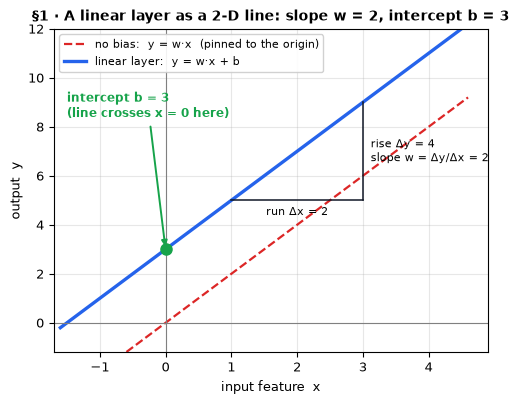
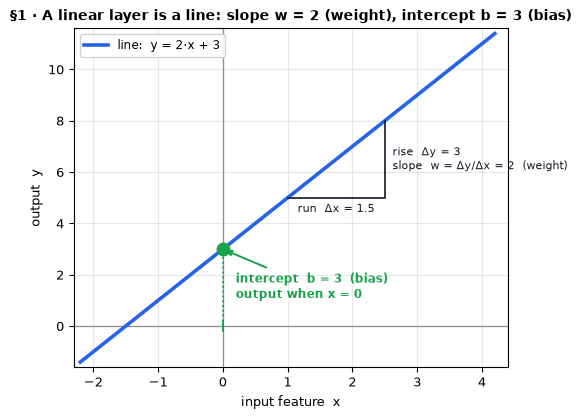
docs(linear-layer): single-line slope/intercept plot + mermaid flow
Simplify fig_linear_layer_affine() to a single clean 2-D line plot: one blue line y = w*x + b with a rise/run slope triangle (w = 2, the weight) and a labeled y-intercept point (b = 3, the bias) at x = 0.

Add a Mermaid flow to section 1.7 (input x -> multiply by weight w / SLOPE -> add bias b / INTERCEPT -> output y) and trim the reading table to the single-line elements.

diff --git a/tools/make_math_figures.py b/tools/make_math_figures.py
@@ -262,44 +262,43 @@ def fig_linalg_card():
 
 
 def fig_linear_layer_affine():
-    """A 1-D linear layer is just a line: y = w·x + b.
+    """A 1-D linear layer is just one straight line: y = w·x + b.
 
-    Isolates the two terms of the affine map in 2-D — the slope w (weight)
-    read off a rise/run triangle and the intercept b (bias) where the line
-    crosses the y-axis — and contrasts the biased line with the bias-free
-    y = w·x that is pinned to the origin.
+    A single-line 2-D plot that reads both learnable scalars straight off the
+    graph: the slope w (the weight) via a rise/run triangle, and the intercept
+    b (the bias) where the line crosses the y-axis at x = 0.
     """
     w, b = 2.0, 3.0                                   # slope (weight), intercept (bias)
-    x = np.linspace(-1.6, 4.6, 200)
-    fig, ax = plt.subplots(figsize=(5.6, 4.2))
-    # bias-free map: the same weight, but locked to the origin
-    ax.plot(x, w * x, ls="--", color=C["r"], lw=1.6,
-            label="no bias:  y = w·x  (pinned to the origin)")
-    # the affine map a linear layer actually computes
-    ax.plot(x, w * x + b, color=C["b"], lw=2.4,
-            label="linear layer:  y = w·x + b")
-    # intercept: the output when the input feature is zero
-    ax.plot([0], [b], "o", color=C["g"], ms=8, zorder=5)
-    ax.annotate(f"intercept b = {b:g}\n(line crosses x = 0 here)",
-                xy=(0, b), xytext=(-1.5, 8.4), color=C["g"], weight="bold",
-                fontsize=8.5,
+    x = np.linspace(-2.2, 4.2, 200)
+    fig, ax = plt.subplots(figsize=(5.6, 4.4))
+    # the single line a linear layer computes
+    ax.plot(x, w * x + b, color=C["b"], lw=2.6, zorder=3,
+            label=f"line:  y = {w:g}·x + {b:g}")
+    # intercept: guide lines down/left to the axes, then the point itself
+    ax.plot([0, 0], [0, b], ls=":", color=C["g"], lw=1.3, zorder=2)
+    ax.plot([0], [0], "|", color=C["g"], ms=8, mew=1.3)
+    ax.plot([0], [b], "o", color=C["g"], ms=9, zorder=5)
+    ax.annotate(f"intercept  b = {b:g}  (bias)\noutput when x = 0",
+                xy=(0, b), xytext=(0.2, 1.1), color=C["g"], weight="bold",
+                fontsize=8.5, ha="left",
                 arrowprops=dict(arrowstyle="-|>", color=C["g"], lw=1.4))
-    # slope: rise over run measured on the solid line
-    x1, x2 = 1.0, 3.0
+    # slope: rise-over-run triangle drawn on the line
+    x1, x2 = 1.0, 2.5
     y1, y2 = w * x1 + b, w * x2 + b
-    ax.plot([x1, x2], [y1, y1], color=C["k"], lw=1.1)          # run (Δx)
-    ax.plot([x2, x2], [y1, y2], color=C["k"], lw=1.1)          # rise (Δy)
-    ax.text((x1 + x2) / 2, y1 - 0.6, "run Δx = 2", ha="center", fontsize=8)
+    ax.plot([x1, x2, x2], [y1, y1, y2], color=C["k"], lw=1.2, zorder=4)
+    ax.text((x1 + x2) / 2, y1 - 0.55, f"run  Δx = {x2 - x1:g}",
+            ha="center", color=C["k"], fontsize=8)
     ax.text(x2 + 0.12, (y1 + y2) / 2,
-            f"rise Δy = {y2 - y1:g}\nslope w = Δy/Δx = {w:g}",
-            fontsize=8, va="center")
-    ax.axhline(0, color="gray", lw=0.8)
-    ax.axvline(0, color="gray", lw=0.8)
-    ax.set_title(f"§1 · A linear layer as a 2-D line: "
-                 f"slope w = {w:g}, intercept b = {b:g}")
+            f"rise  Δy = {y2 - y1:g}\nslope  w = Δy/Δx = {w:g}  (weight)",
+            color=C["k"], fontsize=8, va="center")
+    # axes through the origin
+    ax.axhline(0, color="gray", lw=0.9, zorder=1)
+    ax.axvline(0, color="gray", lw=0.9, zorder=1)
+    ax.set_title(f"§1 · A linear layer is a line: "
+                 f"slope w = {w:g} (weight), intercept b = {b:g} (bias)")
     ax.set_xlabel("input feature  x"); ax.set_ylabel("output  y")
-    ax.set_xlim(-1.7, 4.9); ax.set_ylim(-1.2, 12.0)
-    ax.legend(loc="upper left", fontsize=8, framealpha=0.9)
+    ax.set_xlim(-2.3, 4.4); ax.set_ylim(-1.6, 11.6)
+    ax.legend(loc="upper left", fontsize=8.5, framealpha=0.9)
     return save(fig, "33_linear_layer_affine.png")
 
 # =========================================================================

diff --git a/docs/concepts/linear-algebra/linear-layer.md b/docs/concepts/linear-algebra/linear-layer.md
@@ -179,18 +179,30 @@ Strip a linear layer down to its smallest form — **one input feature, one outp
 
 $$y = w\,x + b$$
 
-![A linear layer drawn as a straight line: the slope w is the rise over run and the bias b is the y-intercept where the line crosses x = 0](../../figures/00-math/33_linear_layer_affine.png)
+```mermaid
+graph LR
+    X["input x"] -->|"multiply by weight w<br/>(SLOPE — sets the tilt)"| MUL["w · x"]
+    MUL -->|"add bias b<br/>(INTERCEPT — shifts the line up/down)"| Y["output y = w·x + b"]
+
+    classDef slope fill:#d4e1f5,stroke:#3b71ca,stroke-width:2px
+    classDef inter fill:#d1f2dd,stroke:#16a34a,stroke-width:2px
+    classDef io fill:#e1f5fe,stroke:#03a9f4,stroke-width:2px
+    class MUL slope
+    class Y inter
+    class X io
+```
+
+![A linear layer drawn as a single straight line: the slope w is the rise over run and the bias b is the y-intercept where the line crosses x = 0](../../figures/00-math/33_linear_layer_affine.png)
 
 Reading the plot:
 
 | Element | Meaning | Ties back to |
 |---|---|---|
-| Solid blue line `y = w·x + b` | The affine map a linear layer computes | §1.1 — a weighted sum, then a shift |
+| Single blue line `y = w·x + b` | The affine map a linear layer computes | §1.1 — a weighted sum, then a shift |
 | Slope triangle, `w = Δy / Δx` | How much the output moves per unit of input | The one weight row of $W$ (the tilt) |
 | Green point at `(0, b)` | The output when the input feature is exactly zero | The bias $b$ |
-| Dashed red line `y = w·x` | The *same* weight with **no bias**, locked to the origin | Why $b \neq 0$ is essential (§2) |
 
-Going from the dashed red line to the solid blue line is a pure **vertical translation** by $b$: the **slope** sets the tilt and the **intercept** slides the whole line up or down. This is the 1-D shadow of the general rule from §2 — the geometric work splits into a rotation/stretch ($xW^T$) plus a translation ($+b$), and a line without a bias is permanently pinned to the origin.
+The **slope** $w$ sets the tilt of the line (the weight's job) and the **intercept** $b$ slides the whole line up or down (the bias's job). Drop the bias and the line is forced through the origin — which is exactly why $b \neq 0$ matters. This is the 1-D shadow of the general rule from §2: the geometric work splits into a rotation/stretch ($xW^T$) plus a translation ($+b$).
 
 ---
 
